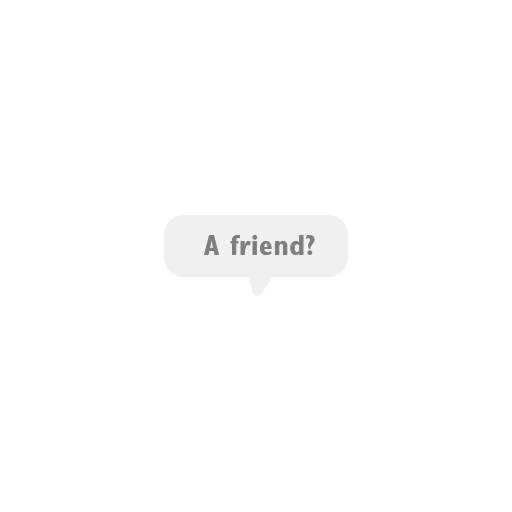
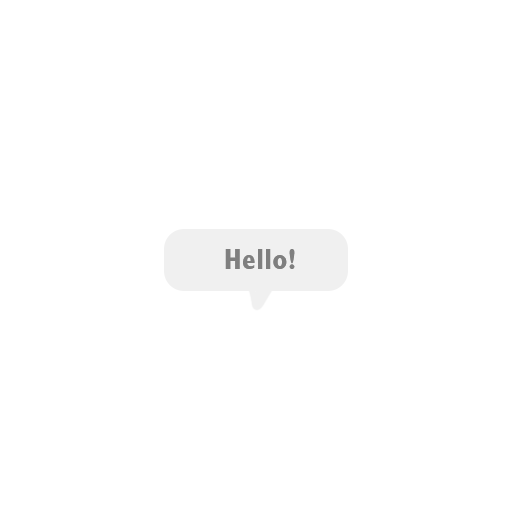
Added bg, good click hitbox, bubbles good

Changed region(s): [[0.375, 0.4375, 0.625, 0.5312]]

diff --git a/src/components/interactive/SimpleTerraforming.js b/src/components/interactive/SimpleTerraforming.js
@@ -5,6 +5,10 @@ import HoverSquashStretch from "../interactive/HoverSquashStretch";
 import HoverChangeImage from "../interactive/HoverChangeImage";
 import HoverSpeechBubble from "../interactive/HoverSpeechBubble";
 
+import shark from "/src/assets/sections/new-worlds/shark.gif"
+import shark2 from "/src/assets/sections/new-worlds/shark2.gif"
+import shark3 from "/src/assets/sections/new-worlds/shark3.gif"
+
 const CounterComponent = ({ x, y, width, height }) => {
 
   const data = useStaticQuery(graphql`
@@ -19,7 +23,7 @@ const CounterComponent = ({ x, y, width, height }) => {
                     gatsbyImageData(
                         layout: FULL_WIDTH,
                         placeholder: BLURRED,
-                        quality: 10
+                        quality: 90
                     )
                 }
             }
@@ -34,7 +38,7 @@ const CounterComponent = ({ x, y, width, height }) => {
                     gatsbyImageData(
                         layout: FULL_WIDTH,
                         placeholder: BLURRED,
-                        quality: 10
+                        quality: 50
                     )
                 }
             }
@@ -42,16 +46,26 @@ const CounterComponent = ({ x, y, width, height }) => {
     }
     `);
 
+    const sortNodesBySuffix = (array) => {
+        array.sort((a, b) => {
+            const numA = parseInt(a.name.match(/\d+/)[0]);
+            const numB = parseInt(b.name.match(/\d+/)[0]);
+            return numA - numB;
+        });
+
+        return array;
+    }
+
     const totalLength = data.terraformFiles.nodes.length-1;
-    const [count, setCount] = useState(totalLength);
+    const [count, setCount] = useState(0);
     const [isHolding, setIsHolding] = useState(false);
 
   const increment = () => {
-    setCount(Math.max(0, count - 1));
+    setCount(Math.min(totalLength, count + 1));
   };
 
   const decrement = () => {
-    setCount(Math.min(totalLength, count + 1));
+    setCount(Math.max(0, count - 1));
   };
 
   const handleTouchStart = (e) => {
@@ -86,6 +100,9 @@ const CounterComponent = ({ x, y, width, height }) => {
     return () => clearTimeout(timeout);
   }, [isHolding]);
 
+    data.terraformFiles.nodes = sortNodesBySuffix(data.terraformFiles.nodes);
+    data.speechFiles.nodes = sortNodesBySuffix(data.speechFiles.nodes);
+
     const src = data.terraformFiles.nodes[count].childImageSharp.gatsbyImageData.images.fallback.src;
 
     function addOtherElements(index) {
@@ -94,26 +111,111 @@ const CounterComponent = ({ x, y, width, height }) => {
             return data.speechFiles.nodes[num].childImageSharp.gatsbyImageData.images.fallback.src;
         }
 
-        const bubbleWidth = 512;
-        const hitboxWidth = bubbleWidth/8;
+        const bubble = {
+            width: 512,
+            height: 512,
+        }
+
+        const hitbox = {
+            width: 30,
+            height: 60,
+        }
+
+        const ClickHitbox = ({ x, y }) => {
+            return (
+                <>
+                    <ellipse
+                        fill="rgba(0,255,0,0)"
+                        cx={x}
+                        cy={y}
+                        rx={100}
+                        ry={60}
+                        onTouchStart={handleTouchStart}
+                        onTouchEnd={handleTouchEnd}
+                        onMouseDown={handleTouchStart} // Fallback for desktop
+                        onMouseUp={handleTouchEnd} // Fallback for desktop
+                        className="cursor-pointer"
+                    ></ellipse>
+                    <HoverSquashStretch src={shark} width={100} x={1050} y={420} />
+                    <HoverSquashStretch src={shark2} width={100} x={1350} y={450} />
+                    <HoverSquashStretch src={shark3} width={100} x={1300} y={600} />
+                </>
+            );
+        }
 
         switch (index) {
             case 0:
-                return <HoverSpeechBubble src={getSrcForSpeechBubble(index)} width={bubbleWidth} hitboxWidth={hitboxWidth} x={1000} y={250} />;
+                return (
+                    <>
+                        <ClickHitbox x={1255} y={540} />
+                        <HoverSpeechBubble src={getSrcForSpeechBubble(index)} bubble={bubble} hitbox={hitbox} x={1235} y={495} />
+                    </>
+                );
+            case 1:
+                return (
+                    <>
+                        <ClickHitbox x={1255} y={540} />
+                        <HoverSpeechBubble src={getSrcForSpeechBubble(index)} bubble={bubble} hitbox={hitbox} x={1235} y={495} />
+                    </>
+                );
+            case 2:
+                return (
+                    <>
+                        <ClickHitbox x={1255} y={540} />
+                        <HoverSpeechBubble src={getSrcForSpeechBubble(index)} bubble={bubble} hitbox={hitbox} x={1235} y={490} />
+                    </>
+                );
+            case 3:
+                return (
+                    <>
+                        <ClickHitbox x={1255} y={540} />
+                        <HoverSpeechBubble src={getSrcForSpeechBubble(index)} bubble={bubble} hitbox={hitbox} x={1235} y={480} />
+                    </>
+                );
+            case 4:
+                return (
+                    <>
+                        <ClickHitbox x={1255} y={470} />
+                        <HoverSpeechBubble src={getSrcForSpeechBubble(index)} bubble={bubble} hitbox={hitbox} x={1235} y={430} />
+                    </>
+                );
+            case 5:
+                return (
+                    <>
+                        <ClickHitbox x={1255} y={410} />
+                        <HoverSpeechBubble src={getSrcForSpeechBubble(index)} bubble={bubble} hitbox={hitbox} x={1240} y={370} />
+                    </>
+                );
+            case 6:
+                return (
+                    <>
+                        <ClickHitbox x={1255} y={290} />
+                        <HoverSpeechBubble src={getSrcForSpeechBubble(index)} bubble={bubble} hitbox={hitbox} x={1245} y={240} />
+                    </>
+                );
+            case 7:
+                return (
+                    <>
+                        <ClickHitbox x={1255} y={260} />
+                        <HoverSpeechBubble src={getSrcForSpeechBubble(index)} bubble={bubble} hitbox={hitbox} x={1235} y={210} />
+                    </>
+                );
+            case 8:
+                return (
+                    <>
+                        <ClickHitbox x={1255} y={260} />
+                        <HoverSpeechBubble src={getSrcForSpeechBubble(index)} bubble={bubble} hitbox={hitbox} x={1175} y={215} />
+                        <HoverSpeechBubble src={getSrcForSpeechBubble(9)} bubble={bubble} hitbox={hitbox} x={1295} y={240} />
+                    </>
+                );
             case 9:
                 return (
                     <>
-                        <HoverSpeechBubble src={getSrcForSpeechBubble(index)} width={bubbleWidth} hitboxWidth={hitboxWidth} x={0} y={0} />
-                        <HoverSpeechBubble src={getSrcForSpeechBubble(10)} width={bubbleWidth} hitboxWidth={hitboxWidth} x={0} y={0} />
-                    </>
-                );
-            case 10:
-                return (
-                    <>
-                        <HoverSpeechBubble src={getSrcForSpeechBubble(11)} width={bubbleWidth} hitboxWidth={hitboxWidth} x={0} y={0} />
-                        <HoverSpeechBubble src={getSrcForSpeechBubble(12)} width={bubbleWidth} hitboxWidth={hitboxWidth} x={0} y={0} />
-                        <HoverSpeechBubble src={getSrcForSpeechBubble(13)} width={bubbleWidth} hitboxWidth={hitboxWidth} x={0} y={0} />
-                        <HoverSpeechBubble src={getSrcForSpeechBubble(14)} width={bubbleWidth} hitboxWidth={hitboxWidth} x={0} y={0} />
+                        <ClickHitbox x={1255} y={260} />
+                        <HoverSpeechBubble src={getSrcForSpeechBubble(10)} bubble={bubble} hitbox={hitbox} x={1170} y={210} />
+                        <HoverSpeechBubble src={getSrcForSpeechBubble(11)} bubble={bubble} hitbox={hitbox} x={1200} y={245} />
+                        <HoverSpeechBubble src={getSrcForSpeechBubble(12)} bubble={bubble} hitbox={hitbox} x={1300} y={240} />
+                        <HoverSpeechBubble src={getSrcForSpeechBubble(13)} bubble={bubble} hitbox={hitbox} x={1240} y={100} />
                     </>
                 );
             default:
@@ -135,14 +237,8 @@ const CounterComponent = ({ x, y, width, height }) => {
                     y={y}
                     width={width}
                     height={height}
-                    onTouchStart={handleTouchStart}
-                    onTouchEnd={handleTouchEnd}
-                    onMouseDown={handleTouchStart} // Fallback for desktop
-                    onMouseUp={handleTouchEnd} // Fallback for desktop
                 ></image>
-                {/*
                 {addOtherElements(count)}
-                */}
             </svg>
         </div>
     );

diff --git a/src/components/interactive/HoverSpeechBubble.js b/src/components/interactive/HoverSpeechBubble.js
@@ -1,6 +1,6 @@
 import React, { useState } from 'react';
 
-const HoverSquashStretch = ({ src, width, hitboxWidth, x, y }) => {
+const HoverSpeechBubble = ({ src, bubble, hitbox, x, y }) => {
 
   const [isHovered, setIsHovered] = useState(false);
   const handleMouseOver = () => {
@@ -18,39 +18,38 @@ const HoverSquashStretch = ({ src, width, hitboxWidth, x, y }) => {
 
   const hoverStyle = isHovered ? {
     opacity: 1,
-    transform: `translateY(-${hitboxWidth}px)`,
+    transform: `translateY(-${hitbox.height*1.5}px)`,
   } : {
-    opacity: 0.25,
-    transform: `translateY(${hitboxWidth}px)`,
+    opacity: 0,
+    transform: `translateY(0px)`,
   };
 
   return (
     <>
       <rect
-        fill="rgba(0,0,0,0.25)"
-        x={x}
-        y={y}
-        width={width}
-        height={width}
-        style={hoverStyle}
-        className="transition-all ease-out duration-300 pointer-events-none"
+        fill="rgba(0,0,0,0)"
+        x={x - bubble.width/2 + hitbox.width/2}
+        y={y - bubble.height/2 + hitbox.height/2}
+        width={bubble.width}
+        height={bubble.height}
+        className="pointer-events-none"
       >
       </rect>
       <image
-        x={x}
-        y={y}
-        width={width}
-        height={width}
+        x={x - bubble.width/2 + hitbox.width/2}
+        y={y - bubble.height/2 + hitbox.height/2}
+        width={bubble.width}
+        height={bubble.height}
         href={src}
         style={hoverStyle}
         className="transition-all ease-out duration-300 pointer-events-none"
       ></image>
       <rect
-        fill="rgba(0,0,0,0.25)"
-        x={x+width/2-hitboxWidth/2}
-        y={y+width/2-hitboxWidth}
-        width={hitboxWidth}
-        height={hitboxWidth*2}
+        fill="rgba(0,0,0,0)"
+        x={x}
+        y={y}
+        width={hitbox.width}
+        height={hitbox.height}
         onMouseOver={handleMouseOver}
       >
       </rect>
@@ -59,4 +58,4 @@ const HoverSquashStretch = ({ src, width, hitboxWidth, x, y }) => {
 
 }
 
-export default HoverSquashStretch;
+export default HoverSpeechBubble;

diff --git a/src/components/SimpleSection.js b/src/components/SimpleSection.js
@@ -91,7 +91,14 @@ const SimpleSection = ({ props, index, children }) => {
                 {
                     interactionType: 'SpeechBubble',
                     src: forest_speechBubble,
-                    width: 200,
+                    bubble: {
+                        width: 276,
+                        height: 174,
+                    },
+                    hitbox: {
+                        width: 50,
+                        height: 100,
+                    },
                     x: 1530,
                     y: 360,
                     zLevel: 1,
@@ -109,7 +116,8 @@ const SimpleSection = ({ props, index, children }) => {
         },
         {
             static: [
-                { url: 'speed_build_left.mp4' },
+                { url: 'speed_build_left.png' },
+                { url: 'speed_build_right.png' },
             ],
             interactive: [
                 {
@@ -177,7 +185,7 @@ const SimpleSection = ({ props, index, children }) => {
             case 'ChangeImage':
                 return <HoverChangeImage key={index} src={link.src} width={link.width} x={link.x} y={link.y} altsrc={link.altsrc} />;
             case 'SpeechBubble':
-                return <HoverSpeechBubble key={index} src={link.src} width={link.width} hitboxWidth={link.width/2} x={link.x} y={link.y} />;
+                return <HoverSpeechBubble key={index} src={link.src} bubble={link.bubble} hitbox={link.hitbox} x={link.x} y={link.y} />;
             case 'SimpleTerraforming':
                 return <SimpleTerraforming key={index} width={link.width} height={link.height} x={link.x} y={link.y} />;
             default:
